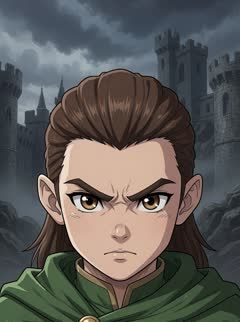
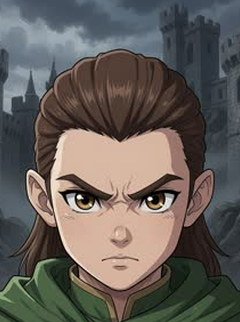
再放大四張頭像：斧戰士、巫毒薩滿、僧侶、公主
這四張的共通點是頭周圍的東西多——斗篷、毛領+頭冠+豎髮、僧袍、皇冠+大量頭髮。
瞳距量起來其實跟別人差不多，但視覺上就是小一號；這種「畫面佔比」的感受量不出來，
以睿哥看到的為準。

四張統一 1.14×（等比例），dy 各自算回眼線 y≈210：dy = eye - 161 - 49/zoom。

Claude-Session: https://claude.ai/code/session_01499oPV8s2HnsVoiMQYx47v

diff --git a/js/assetVersions.js b/js/assetVersions.js
@@ -134,16 +134,16 @@ window.HF_ASSET_V = {
 "assets/heroes/portraits/amazon.jpg":"5954d74e7c",
 "assets/heroes/portraits/archmage.jpg":"54ddf8319b",
 "assets/heroes/portraits/assassin.jpg":"39eb4b429f",
-"assets/heroes/portraits/axeman.jpg":"11f383f4aa",
-"assets/heroes/portraits/dark_elf.jpg":"59a535eae3",
+"assets/heroes/portraits/axeman.jpg":"fbc18c9042",
+"assets/heroes/portraits/dark_elf.jpg":"6fd7e5b1c8",
 "assets/heroes/portraits/dark_fighter.jpg":"ca42bf4f07",
 "assets/heroes/portraits/dark_mage.jpg":"ad8268fd96",
 "assets/heroes/portraits/dragon_knight.jpg":"3e82e73893",
 "assets/heroes/portraits/knight.jpg":"19c2e34511",
-"assets/heroes/portraits/monk.jpg":"62f61e3d26",
+"assets/heroes/portraits/monk.jpg":"3b74fb949c",
 "assets/heroes/portraits/orc_archer.jpg":"7ef9ed013a",
 "assets/heroes/portraits/paladin.jpg":"fdfc7392cd",
-"assets/heroes/portraits/princess.jpg":"a440ebe206",
+"assets/heroes/portraits/princess.jpg":"2957ecdc33",
 "assets/heroes/portraits/ranger.jpg":"f10aef4e72",
 "assets/audio/bgm/battle.mp3":"712fbb782a",
 "assets/audio/bgm/home_custom.mp3":"10fb7ea41e",

diff --git a/index.html b/index.html
@@ -67,7 +67,7 @@
           而且開著不重整就永遠不會重抓），所有 ?v= 都不會生效 ——
           那時這行會停在舊版本號，或整行不存在。**改版時記得改這裡。**
         -->
-        <p class="build-stamp" id="build-stamp">v1.39 · 0815-1118</p>
+        <p class="build-stamp" id="build-stamp">v1.40 · 0815-1612</p>
         <!-- 偵測到線上有新版時才出現；點一下重新載入 -->
         <button class="build-update" id="build-update" type="button" hidden>有新版本 · 點一下更新</button>
       </div>
@@ -343,7 +343,7 @@
     </div>
   </div>
   <!-- 逐檔素材版本表：由 tools/gen_asset_versions.py 產生，必須排在其他腳本之前 -->
-  <script src="js/assetVersions.js?v=1e3d150713"></script>
+  <script src="js/assetVersions.js?v=7efc7037b0"></script>
   <script src="js/data.js?v=3"></script>
   <script src="js/rng.js?v=7"></script>
   <script src="js/videoPlayer.js?v=28"></script>

diff --git a/tools/fix_portrait_framing.py b/tools/fix_portrait_framing.py
@@ -54,8 +54,16 @@ ADJUST = {
     "dark_fighter": {"zoom": 1.08, "dy": 4},    # 瞳距約 52，眼線 216 偏低
     "dragon_knight": {"zoom": 1.16, "dy": -44}, # 瞳距約 50；眼線原本 150 太高
     "paladin": {"zoom": 1.24, "dy": 4},         # 瞳距原本 44，第一輪 1.30 稍過頭
-}
 
+    # 2026-08-15 第三輪：睿哥圈出這四張說「頭有比較小一點，可以稍微等比例放大」。
+    # 共通點是**頭周圍的東西多**（斗篷、毛領、僧袍、皇冠），臉相對就顯得小 ——
+    # 瞳距量起來其實沒差很多，但視覺上就是小一號，以他看到的為準。
+    # 四張統一 1.14×，dy 各自算回眼線 y≈210：dy = eye − 161 − 49/zoom。
+    "axeman": {"zoom": 1.14, "dy": 6},          # 眼線 210
+    "dark_elf": {"zoom": 1.14, "dy": 4},        # 眼線 208
+    "monk": {"zoom": 1.14, "dy": 6},            # 眼線 210
+    "princess": {"zoom": 1.14, "dy": 0},        # 眼線 204
+}
 
 
 def extend(img: Image.Image, top: int, bottom: int) -> Image.Image:

diff --git a/PROJECT_NOTES.md b/PROJECT_NOTES.md
@@ -7,7 +7,7 @@
 ## 目前狀態
 
 - 最後更新：2026-08-14（Claude Code）
-- 進度：可玩 **v1.39**（v1.9 的 3 支修正影片＋7 個角色改名＋確定動畫可點擊跳過＋展翼版魔王立繪 `boss_model_v3.png` 與新的魔王降臨影片）；14 角色影片（wait／confirm／attack／victory 各 14 支，CRF 29 共 26MB）；使用者製作的開始選單伴奏＋14 角選角專屬 BGM 精華、3 首原有場景 BGM、14 角各自攻擊／勝利音效、完整 UI／魔王聲效；角色卡切換會平滑換曲，首頁音效按鈕與設定圖示會依開關在 🔊／🔇 間同步切換；14 張選角卡完整排成 7×2
+- 進度：可玩 **v1.40**（v1.9 的 3 支修正影片＋7 個角色改名＋確定動畫可點擊跳過＋展翼版魔王立繪 `boss_model_v3.png` 與新的魔王降臨影片）；14 角色影片（wait／confirm／attack／victory 各 14 支，CRF 29 共 26MB）；使用者製作的開始選單伴奏＋14 角選角專屬 BGM 精華、3 首原有場景 BGM、14 角各自攻擊／勝利音效、完整 UI／魔王聲效；角色卡切換會平滑換曲，首頁音效按鈕與設定圖示會依開關在 🔊／🔇 間同步切換；14 張選角卡完整排成 7×2
 - 路徑：`/Users/longxia7hao/Heroes_Fate/`
 - **開工必讀（會自動載入，跨裝置都有效）：`CLAUDE.md`**；架構長篇說明：`AGENT_HANDOFF.md`（內文現況數字是 2026-08-01 的舊值，只當背景讀）
 - **GitHub（2026-08-13 建立）**：`longxia7hao-dev/heroes-fate`（公開），版本控制 265 檔約 73MB；`assets/anim`（128MB）與舊高碼率原片 `assets/videos/{wait,confirm,victory}`（272MB）由 `.gitignore` 排除，只留本機與 Drive
@@ -43,6 +43,7 @@
 
 ## 變更日誌
 
+- 2026-08-15｜Claude Code｜**v1.40 再放大四張頭像（斧戰士／巫毒薩滿／僧侶／公主）**：①睿哥圈出這四張：「頭有比較小一點，可以稍微等比例放大一點嗎？」②**這四張的共通點是頭周圍的東西多** —— 斧戰士的斗篷、巫毒薩滿的毛領＋頭冠＋豎髮、僧侶的僧袍、公主的皇冠＋大量頭髮。**瞳距量起來其實跟別人差不多**，但視覺上就是小一號 —— 這種「畫面佔比」的感受量不出來，**以睿哥看到的為準**。③四張統一 **1.14×**（等比例，長寬同時放大不變形），dy 各自算回眼線 y≈210：公式 `dy = eye − 161 − 49/zoom`；axeman +6、dark_elf +4、monk +6、princess 0。④公主的皇冠與四張的邊界都確認過沒有被裁掉（裁切框皆在原圖範圍內，不需補邊）。⑤`_orig/` 現有 9 張原圖（72KB→更多），工具仍然只讀那裡，**連跑兩次 md5 相同**。⑥版本表 7efc7037b0；版本印記 `v1.40`。⑦**實測**：選角格 4x 截圖，四張明顯變大且與其餘十張同一級距，console error 0。
 - 2026-08-15｜Claude Code｜**v1.39 14 張頭像整體對齊（比例大小與高低）**：①睿哥：「盡量讓每個角色比例大小、位置高低一致。」②**自動量測連試三種都失敗，全部丟掉**：(a) 全域膚色偵測 —— 金髮與亮盔甲被判成皮膚，量出來 paladin 反而最寬；(b) 暗塊左右重心 —— 抓到臉旁的髮絲，archmage 量到 188px；(c) 連通區塊配對 —— **把偵測結果疊回原圖一看，抓到的多半是眉毛不是瞳孔**。**教訓：這種量測一定要把結果畫出來確認，只看數字會被騙。**③改用**目視但可比較**的方法：把 14 張裁同一段 y 帶（150–285）並排、每 20px 畫格線，瞳距直接用格子數讀。讀出來瞳距中位數約 **58px**、眼線目標 y≈210。④**發現上一輪做錯一件事**：v1.38 把 archmage 放大 1.10 —— 但它本來就是**全場最大**的一張（瞳距約 70）。這輪改回 1.02（幾乎不放大），只保留「往上移」。⑤這輪的設定：amazon 1.22/+6（瞳距 44，全場最小）、archmage 1.02/+12、dark_fighter 1.08/+4（眼線 216 偏低）、dragon_knight 1.16/−44、paladin 1.24/+4。⑥`extend_top()` 擴充成 `extend(top, bottom)` —— 縮放接近 1 又要平移時，裁切框會**同時**超出上下兩端，只補上緣的話 PIL 會丟 `box can't exceed original image size`。⑦原圖仍全部留在 `portraits/_orig/`，工具永遠只讀那裡，**連跑兩次 md5 相同**。⑧版本表 1e3d150713；版本印記 `v1.39`。⑨**實測**：改後同段 y 帶並排，14 張的臉大小與眼線都落在同一帶；選角格 4x 截圖確認、console error 0。⑩**沒有動的**：assassin（兜帽只有一對發光眼，沒有臉可對齊）；knight 的臉因為在頭盔裡本來就偏小，那是美術本身，不是取景問題。
 - 2026-08-15｜Claude Code｜**v1.38 三張選角頭像重新取景（頭的大小與高低對齊）**：①睿哥：「聖騎士的頭明顯比大家小；大魔導士頭的位置太低；龍騎士頭的位置太高。」②**量法**：14 張排成 montage、在 **y=210** 畫基準線，再逐張看**瞳距**（瞳孔中心的 x 距離 —— 這是頭部大小最穩的代理值，不受髮型與盔甲干擾；**膚色偵測不能用**，金髮與盔甲會被判成皮膚，量出來 paladin 反而變最寬）。量到：多數人瞳距 60–64px、眼線 205–218；**paladin 瞳距只有 44**（別人的 0.7）、**dragon_knight 眼線 150**（高了 60px）、archmage 眼線 207 但頭頂留白比別人多。③新增 `tools/fix_portrait_framing.py`，以 `zoom`／`dy` 重新取景：paladin 1.30／+6、archmage 1.10／+14、dragon_knight 1.10／**−46**。④dragon_knight 的髮梢本來就頂到上緣，往下移代表**裁切框要伸出畫面外**，上方不足處用**鏡射＋高斯模糊**補 32px（那一帶是暗色天空與城堡剪影，補完看不出來）。⑤**避開重跑就毀掉的陷阱**：這支會覆蓋 `portraits/<id>.jpg`，若來源就是輸出檔，重跑一次就再縮放一次。所以原圖另存 `portraits/_orig/`（44KB），**本檔永遠只讀那裡** —— 已實測連跑兩次 md5 完全相同。（`generate_audio.py`／`gen_sfx_v2.py` 都被同類陷阱咬過，這次一開始就擋掉。）⑥這三張同時用在**選角格**與**命運排序的牌面**，兩邊都吃 `heroThumb()`，逐檔雜湊會自動換網址。⑦版本表 068e3636fb；版本印記 `v1.38`。⑧**實測**：改後 montage 三張的眼線都落在基準線上、頭的大小與鄰居相當；選角格 4x 截圖確認，console error 0。
 - 2026-08-15｜Claude Code｜**v1.37 卡片正面：整張臉跟肩膀完整露出**：①睿哥：「卡片的正面能讓角色的整張臉跟肩膀露出來嗎？現在都被切掉。」**是兩件事疊起來造成的**：(a) `object-fit: cover` 把 **0.745 的頭像**塞進 **0.667 的卡**（卡片為了配合卡背素材是 2:3），左右各裁掉 5%，肩膀先斷一截；(b) 名次條用漸層**壓在圖上**、蓋住下面三成，剩下的肩膀也沒了。②頭像素材（240×322）本身就是很緊的「臉＋肩膀」構圖，**肩膀就貼在下緣**，所以只要裁一點或蓋一點就會不見。③改成上下兩段的 flex：圖用 **`object-fit: contain` 完整顯示不裁切**，名次條**自己佔一條**放在圖下方（不再是絕對定位疊上去）。④`min-height: 0` 一樣不能省 —— flex 子項預設 `min-height: auto`，不歸零的話圖會把名次條擠出卡片外。⑤左右各留約 5px 的黑邊（0.745 的圖放進 0.667 的框），底色是深色所以幾乎看不出來；要完全沒有黑邊就得重切一套 2:3 的頭像，那要動素材，先不做。⑥快取：ornate.css?v=9→10；版本印記 `v1.37`。⑦**實測**：`object-fit` 為 `contain`、六張牌名次 1..6、翻面數等於總數；5x 放大截圖確認每張都看得到完整的臉與肩膀。
